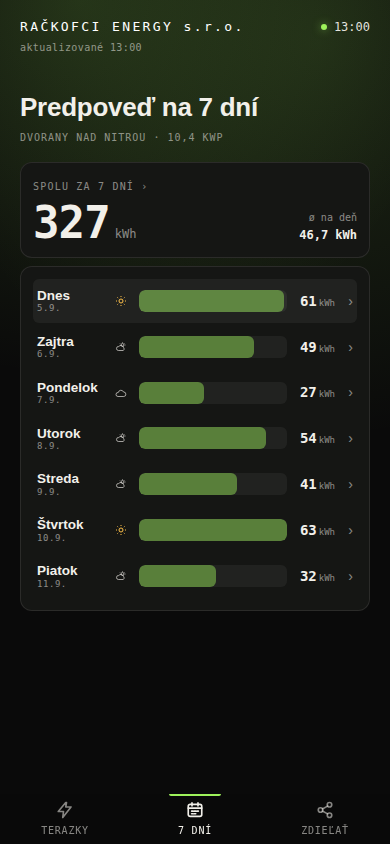
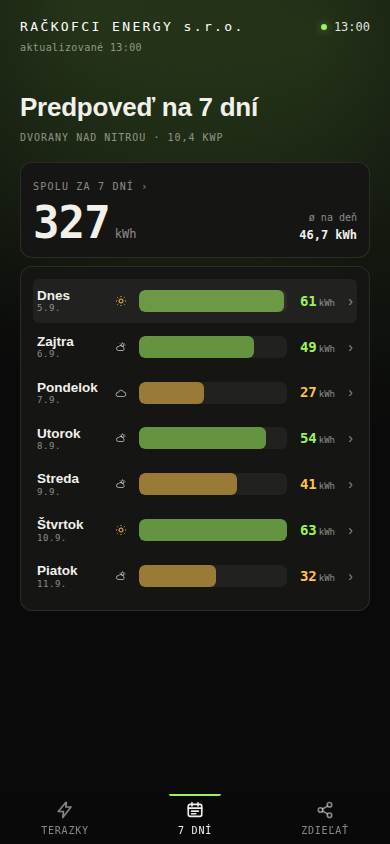
feat: výroba po dňoch nesie farby heatmapy
Pásik a číslo v rebríčku, stĺpec a číslo v Dennej výrobe a číslo
v stĺpci Výroba v tabuľke dostali tri farby heatmapy. Pásmo počíta
jediná funkcia weekDayTiers v shared/chart-model.js: podiel
z najsilnejšieho dňa v týždni s hranicami 1/3 a 2/3, teda tá istá
mierka, akou meria heatmapa svoje bunky - v detaile týždňa stoja obe
grafiky na jednej obrazovke a musia hovoriť to isté.

Deň bez výroby pásmo nemá a ostáva nefarbený, inak by týždeň bez
jedinej kWh vyšiel celý červený. Sýtosť sa z heatmapy nepreberá: tam
je jediným nosičom veľkosti, tu je ňou dĺžka pásika a výška stĺpca.
Vybraný deň sa preto v grafe odlišuje plnou sýtosťou, nie inou farbou.

Legenda farieb ostáva jedna, pod heatmapou.

Žiaden prvok v HTML nepribudol ani neodišiel a dom.js sa nemení,
takže to ide jedným nasadením.

Claude-Session: https://claude.ai/code/session_01EiiTyd8JDPqzD768ogkLdS

diff --git a/web/render/sedemdni.js b/web/render/sedemdni.js
@@ -14,6 +14,7 @@ import {
     usePct,
     visibleHours,
     weekBarsModel,
+    weekDayTiers,
     weekHeatModel,
     weekListModel,
     weekStatsModel,
@@ -131,6 +132,7 @@ function renderTableAndTabs(days, sel, dom) {
                 `<button type="button" role="tab" class="utab${i === sel ? ' active' : ''}" aria-selected="${i === sel}" data-day-index="${i}">${weekDayShort(d.date, i)}</button>`,
         )
         .join('');
+    const tiers = weekDayTiers(days);
     dom.weekTbody.innerHTML = days
         .map((d, i) => {
             const pct = usePct(d);
@@ -138,7 +140,7 @@ function renderTableAndTabs(days, sel, dom) {
             const peakAt = d.peakHour == null ? '–' : `o ${hourLabel(d.peakHour)}`;
             return (
                 `<tr class="${i === 0 ? 'today' : ''}${i === sel ? ' sel' : ''}" data-day-index="${i}"><td>${weekDayShort(d.date, i)}${dateSub}</td>` +
-                `<td>${d.kwhTotal.toFixed(1)} kWh</td><td class="mid">${skyCell(d.cloudAvgPct)}</td><td class="mid${useTier(pct)}">${pct == null ? '–' : `${pct} %`}</td>` +
+                `<td class="${tiers[i] ? `tier-${tiers[i]}` : ''}">${d.kwhTotal.toFixed(1)} kWh</td><td class="mid">${skyCell(d.cloudAvgPct)}</td><td class="mid${useTier(pct)}">${pct == null ? '–' : `${pct} %`}</td>` +
                 `<td>${d.peakKw.toFixed(1)} kW<span class="sub">${peakAt}</span></td></tr>`
             );
         })
@@ -159,14 +161,18 @@ function renderList(s, rows, dom) {
     dom.weekListTotal.textContent = String(Math.round(s.totalKwh));
     dom.weekListAvg.textContent = `${fmt1(s.avgKwh)} kWh`;
     dom.weekList.innerHTML = rows
-        .map(
-            (r) =>
+        .map((r) => {
+            // Pásmo dňa nesie pásik aj číslo vedľa neho - tá istá farba a tá istá mierka
+            // ako v heatmape (viď weekDayTiers v shared/chart-model.js).
+            const tier = r.tier ? ` tier-${r.tier}` : '';
+            return (
                 `<button type="button" class="wday${r.sel ? ' sel' : ''}" data-day-index="${r.dayIndex}">` +
                 `<span class="wday-name">${escapeHtml(r.name)}<span class="wday-date">${escapeHtml(r.dateLabel)}</span></span>` +
                 skyCell(r.cloudAvgPct) +
-                `<span class="wday-bar"><i style="width:${r.barPct}%"></i></span>` +
-                `<span class="wday-kwh">${r.kwh}<span class="u">kWh</span></span></button>`,
-        )
+                `<span class="wday-bar"><i class="${tier.trim()}" style="width:${r.barPct}%"></i></span>` +
+                `<span class="wday-kwh${tier}">${r.kwh}<span class="u">kWh</span></span></button>`
+            );
+        })
         .join('');
 }
 

diff --git a/style.css b/style.css
@@ -1238,11 +1238,25 @@ b {
     stroke-opacity: 0.55;
     pointer-events: none;
 }
+/* Farba stĺpca je pásmo dňa - tá istá mierka a tie isté tri farby ako v heatmape
+   (weekDayTiers v shared/chart-model.js). Deň bez výroby pásmo nemá a ostáva sivý. */
 .bar {
     fill: var(--ink-45);
+    fill-opacity: 0.75;
 }
+.bar.tier-red {
+    fill: var(--red);
+}
+.bar.tier-amber {
+    fill: var(--amber);
+}
+.bar.tier-green {
+    fill: var(--green);
+}
+/* Vybraný deň sa neodlišuje inou farbou, ale plnou sýtosťou - farba už patrí pásmu.
+   Ktorý deň to je, hovorí aj jeho meno pod stĺpcom (.day-label.sel vyššie). */
 .bar.sel {
-    fill: var(--ink);
+    fill-opacity: 1;
 }
 .clear-cap {
     stroke: var(--ink-45);
@@ -1253,9 +1267,20 @@ b {
     font-family: var(--font-mono);
     font-size: 9.5px;
     fill: var(--ink-45);
+    fill-opacity: 0.85;
+}
+.bar-value.tier-red {
+    fill: var(--red);
+}
+.bar-value.tier-amber {
+    fill: var(--amber);
+}
+.bar-value.tier-green {
+    fill: var(--green);
 }
 .bar-value.sel {
-    fill: var(--ink);
+    fill-opacity: 1;
+    font-weight: 600;
 }
 .bar-hit {
     fill: transparent;
@@ -1502,6 +1527,16 @@ b {
 .week-table .mid {
     text-align: center;
 }
+/* Pásmo dňa na výrobe - tie isté tri farby ako v heatmape a v stĺpcoch. */
+.week-table td.tier-red {
+    color: var(--red);
+}
+.week-table td.tier-amber {
+    color: var(--amber);
+}
+.week-table td.tier-green {
+    color: var(--green);
+}
 /* Odtieň percenta využitia - prahy sú v useTier() vo web/render/sedemdni.js. */
 .week-table .use-hi {
     color: var(--green);
@@ -1661,6 +1696,17 @@ b {
     border-radius: var(--radius-sm);
     background: color-mix(in srgb, var(--green) 45%, transparent);
 }
+/* Pásmo dňa - tá istá mierka ako v heatmape. Sýtosť sa z heatmapy nepreberá: tam je
+   jediným nosičom veľkosti, tu je ňou dĺžka pásika a slabý deň by bol krátky aj vyblednutý. */
+.wday-bar i.tier-red {
+    background: color-mix(in srgb, var(--red) 55%, transparent);
+}
+.wday-bar i.tier-amber {
+    background: color-mix(in srgb, var(--amber) 55%, transparent);
+}
+.wday-bar i.tier-green {
+    background: color-mix(in srgb, var(--green) 55%, transparent);
+}
 .wday-kwh {
     font-family: var(--font-mono);
     font-size: var(--fs-md);
@@ -1668,6 +1714,15 @@ b {
     min-width: 40px;
     text-align: right;
     white-space: nowrap;
+}
+.wday-kwh.tier-red {
+    color: var(--red);
+}
+.wday-kwh.tier-amber {
+    color: var(--amber);
+}
+.wday-kwh.tier-green {
+    color: var(--green);
 }
 .wday-kwh .u {
     font-family: var(--font-mono);

diff --git a/test/e2e/app.spec.js b/test/e2e/app.spec.js
@@ -2,7 +2,7 @@
 // doménovou logikou (shared/), takže test chytí rozdiel medzi modelom a tým, čo je v DOM.
 import { expect, test } from '@playwright/test';
 import AxeBuilder from '@axe-core/playwright';
-import { ringPercent, usePct, visibleHours, weekListModel, WEEK_HOURS } from '../../shared/chart-model.js';
+import { ringPercent, usePct, visibleHours, weekDayTiers, weekListModel, WEEK_HOURS } from '../../shared/chart-model.js';
 import { LEGACY_SOURCES, PREVIEW, SWIPE, TOOLTIP_FADE_MS, TOOLTIP_HOLD_MS, WORKER_URL } from '../../shared/config.js';
 import { heroModel } from '../../shared/hero-model.js';
 import { fmt1, hourLabel, weekDayLong } from '../../shared/format.js';
@@ -366,6 +366,14 @@ test('7 dní na mobile: prehľad dní, detail dňa a návrat späť', async ({ p
             `width:${r.barPct}%`,
         );
 
+    // Pásmo dňa (farba heatmapy) nesie pásik aj číslo. Očakávanie sa počíta tou istou
+    // funkciou ako v appke, takže test chytí rozdiel medzi mierkou modelu a farbou v DOM.
+    for (const [i, tier] of weekDayTiers(forecast.days).entries()) {
+        const riadok = page.locator(`#week-list [data-day-index="${i}"]`);
+        await expect(riadok.locator('.wday-bar i')).toHaveClass(tier ? `tier-${tier}` : '');
+        await expect(riadok.locator('.wday-kwh')).toHaveClass(tier ? `wday-kwh tier-${tier}` : 'wday-kwh');
+    }
+
     // Klik na deň otvorí jeho detail: priebeh toho dňa a jeho riadok z heatmapy.
     await page.locator('#week-list [data-day-index="5"]').click();
     await expect(page.locator('#week-day-title')).toHaveText(weekDayLong(forecast.days[5].date, 5));
@@ -481,6 +489,12 @@ test('7 dní na desktope: karta ostáva celá, výber dňa naprieč komponentmi'
     // Štvrtý stĺpec tabuľky je Využitie.
     for (const [i, day] of forecast.days.entries())
         await expect(page.locator(`#week-tbody tr[data-day-index="${i}"] td:nth-child(4)`)).toHaveClass(`mid${useTier(usePct(day))}`);
+
+    // Druhý stĺpec tabuľky je Výroba - nesie to isté pásmo dňa ako stĺpce grafu vedľa nej.
+    for (const [i, tier] of weekDayTiers(forecast.days).entries()) {
+        await expect(page.locator(`#week-tbody tr[data-day-index="${i}"] td:nth-child(2)`)).toHaveClass(tier ? `tier-${tier}` : '');
+        await expect(page.locator('#week-bars rect.bar').nth(i)).toHaveClass(tier ? new RegExp(`\\btier-${tier}\\b`) : /^bar$/);
+    }
 
     await page.locator('#week-day-tabs [data-day-index="3"]').click();
     await expect(page.locator('#week-day-tabs .utab.active')).toHaveAttribute('data-day-index', '3');

diff --git a/shared/chart-model.js b/shared/chart-model.js
@@ -269,6 +269,23 @@ function heatBand(frac) {
 }
 
 /**
+ * Farebné pásmo celého dňa - tá istá logika ako v heatmape, len o úroveň vyššie: namiesto
+ * podielu z najsilnejšej hodiny sa počíta podiel z najsilnejšieho dňa v týždni. Vďaka tomu
+ * hovoria stĺpce, rebríček aj heatmapa na jednej obrazovke tou istou mierkou.
+ *
+ * Deň bez výroby (a týždeň bez jedinej kWh) nemá pásmo - `null` znamená "nefarbiť", rovnako
+ * ako pri prázdnej bunke heatmapy. Inak by polárny týždeň vyšiel celý červený.
+ * @param {ForecastDay[]} days @returns {('red' | 'amber' | 'green' | null)[]}
+ */
+export function weekDayTiers(days) {
+    const max = Math.max(...days.map((d) => d.kwhTotal), 0);
+    return days.map((d) => {
+        const frac = max > 0 ? d.kwhTotal / max : 0;
+        return frac <= 0.02 ? null : heatBand(frac);
+    });
+}
+
+/**
  * Mapa výroby hodina × deň. Bez `size` si plátno určí sama (mobil), s ním sa roztiahne
  * na skutočný rozmer karty - vtedy sa riadky rozdelia o dostupnú výšku.
  * @param {ForecastDay[]} days @param {number} selDay @param {{ W: number, H: number } | null} [size]
@@ -349,6 +366,7 @@ export function weekBarsModel(days, selDay, size = { W: 440, H: 190 }, showCeili
 
     const grid = [];
     for (let g = 0; g <= maxV; g += gridStep) grid.push({ y: yFor(g), label: String(g) });
+    const tiers = weekDayTiers(days);
     const bars = days.map((d, i) => {
         const cx = padL + i * slot + slot / 2;
         const usePct = d.clearKwhTotal > 0 ? Math.round((100 * d.kwhTotal) / d.clearKwhTotal) : 0;
@@ -356,6 +374,7 @@ export function weekBarsModel(days, selDay, size = { W: 440, H: 190 }, showCeili
             dayIndex: i,
             sel: i === selDay,
             today: i === 0,
+            tier: tiers[i],
             x: cx - bw / 2,
             y: yFor(d.kwhTotal),
             w: bw,
@@ -426,10 +445,12 @@ export function weekListModel(days, selDay) {
     // Týždeň bez jedinej kWh (polárna noc, pokazené dáta) by z delenia urobil NaN a pásiky
     // by zmizli aj s rozložením mriežky - vtedy sú prázdne, čo je pravda o takom týždni.
     const max = Math.max(...days.map((d) => d.kwhTotal), 0);
+    const tiers = weekDayTiers(days);
     return days.map((d, i) => ({
         dayIndex: i,
         today: i === 0,
         sel: i === selDay,
+        tier: tiers[i],
         name: weekDayName(d.date, i),
         dateLabel: weekDateLabel(d.date),
         cloudAvgPct: d.cloudAvgPct,

diff --git a/test/chart-model.test.js b/test/chart-model.test.js
@@ -19,6 +19,7 @@ import {
     usePct,
     WEEK_HOURS,
     weekBarsModel,
+    weekDayTiers,
     weekListModel,
     weekHeatModel,
     weekStatsModel,
@@ -244,6 +245,39 @@ test('weekListModel: pásik podľa najsilnejšieho dňa, výroba v celých kWh',
     assert.ok(
         rows.every((r) => Number.isInteger(r.kwh)),
         'výroba je v celých kWh',
+    );
+});
+
+test('weekDayTiers: pásmo dňa podľa podielu z najsilnejšieho dňa, tie isté hranice ako heatmapa', () => {
+    const den = (/** @type {number} */ kwhTotal) => ({ ...forecast.days[0], kwhTotal });
+    // 60 je najsilnejší deň: 60/60 = 1 zelená, 35/60 = 0,58 jantárová, 15/60 = 0,25 červená.
+    const tiers = weekDayTiers([den(60), den(35), den(15), den(0)]);
+    assert.deepEqual(tiers, ['green', 'amber', 'red', null]);
+    // Hranice sú presne v tretinách, rovnako ako pásma buniek heatmapy.
+    assert.deepEqual(weekDayTiers([den(90), den(30), den(29.9), den(60), den(59.9)]), ['green', 'amber', 'red', 'green', 'amber']);
+});
+
+test('weekDayTiers: týždeň bez jedinej kWh nemá byť celý červený', () => {
+    const tiers = weekDayTiers(forecast.days.map((d) => ({ ...d, kwhTotal: 0 })));
+    assert.ok(
+        tiers.every((t) => t === null),
+        'deň bez výroby nemá pásmo - null znamená nefarbiť',
+    );
+});
+
+test('weekBarsModel a weekListModel nesú to isté pásmo dňa', () => {
+    const tiers = weekDayTiers(forecast.days);
+    assert.deepEqual(
+        weekBarsModel(forecast.days, 1).bars.map((b) => b.tier),
+        tiers,
+    );
+    assert.deepEqual(
+        weekListModel(forecast.days, 1).map((r) => r.tier),
+        tiers,
+    );
+    assert.ok(
+        tiers.some((t) => t === 'green'),
+        'najsilnejší deň v týždni je vždy zelený',
     );
 });
 

diff --git a/web/svg.js b/web/svg.js
@@ -79,10 +79,13 @@ export function weekBarsSvg(m) {
         )
         .join('');
     for (const b of m.bars) {
-        out += `<rect class="bar${b.sel ? ' sel' : ''}" x="${n(b.x)}" y="${n(b.y)}" width="${n(b.w)}" height="${n(b.h)}" rx="3"/>`;
+        // Pásmo dňa je tá istá farba ako v heatmape (viď weekDayTiers) - stĺpec aj číslo
+        // nad ním ju nesú spolu, aby sa dal silný deň nájsť očami bez čítania.
+        const tier = b.tier ? ` tier-${b.tier}` : '';
+        out += `<rect class="bar${tier}${b.sel ? ' sel' : ''}" x="${n(b.x)}" y="${n(b.y)}" width="${n(b.w)}" height="${n(b.h)}" rx="3"/>`;
         if (b.clearY != null)
             out += `<line class="clear-cap" x1="${n(b.x - 2)}" y1="${n(b.clearY)}" x2="${n(b.x + b.w + 2)}" y2="${n(b.clearY)}"/>`;
-        out += `<text class="bar-value${b.sel ? ' sel' : ''}" x="${n(b.cx)}" y="${n(b.y - 6)}" text-anchor="middle">${b.valueLabel}</text>`;
+        out += `<text class="bar-value${tier}${b.sel ? ' sel' : ''}" x="${n(b.cx)}" y="${n(b.y - 6)}" text-anchor="middle">${b.valueLabel}</text>`;
         out += `<text class="day-label${b.today ? ' today' : ''}${b.sel ? ' sel' : ''}" x="${n(b.cx)}" y="${m.labelY}" text-anchor="middle">${b.dayLabel}</text>`;
         out += `<text class="axis-label" x="${n(b.cx)}" y="${m.dateY}" text-anchor="middle">${b.dateLabel}</text>`;
         out += `<rect class="bar-hit"${tipAttrs(b.tip)} data-day-index="${b.dayIndex}" x="${n(b.hit.x)}" y="0" width="${n(b.hit.w)}" height="${m.H}"/>`;

diff --git a/docs/ARCHITECTURE.md b/docs/ARCHITECTURE.md
@@ -143,6 +143,18 @@ v HTML prvá, ale na oboch detailoch má ísť posledná.
 Heatmapa je v detaile dňa tá istá funkcia (`weekHeatModel`) s prepínačom „jeden deň“:
 mierka farieb ostáva z celého týždňa, inak by aj najslabší deň vyzeral sám o sebe ako plný.
 
+Tie isté tri farby nesie aj výroba po dňoch – pásik a číslo v rebríčku, stĺpec a číslo nad
+ním v Dennej výrobe, číslo v stĺpci Výroba v tabuľke. Pásmo počíta jediná funkcia
+`weekDayTiers` v `shared/chart-model.js`: podiel z najsilnejšieho **dňa** v týždni s tými
+istými hranicami (1/3, 2/3) ako bunky heatmapy, takže obe grafiky na jednej obrazovke
+merajú rovnako. Deň bez výroby pásmo nemá (`null`) a ostáva nefarbený – inak by týždeň bez
+jedinej kWh vyšiel celý červený.
+
+Sýtosť sa z heatmapy nepreberá. Tam je jediným nosičom veľkosti, pri dňoch je ňou dĺžka
+pásika a výška stĺpca – slabý deň by bol krátky _aj_ vyblednutý a prakticky by zmizol.
+Vybraný deň sa preto v grafe neodlišuje inou farbou, ale plnou sýtosťou (`.bar.sel`).
+Legenda farieb je jedna, pod heatmapou.
+
 Od 768 px je detail vypnutý: tam je na celú kartu miesto naraz a klik na deň ho, ako
 doteraz, len vyberie vo všetkých grafoch. Rozhoduje o tom podmienka `!state.wide`
 v `renderSedemdni`, a `wide` je `(min-width: 768px)` – nie desktopových 1024 px. Pravidlá
